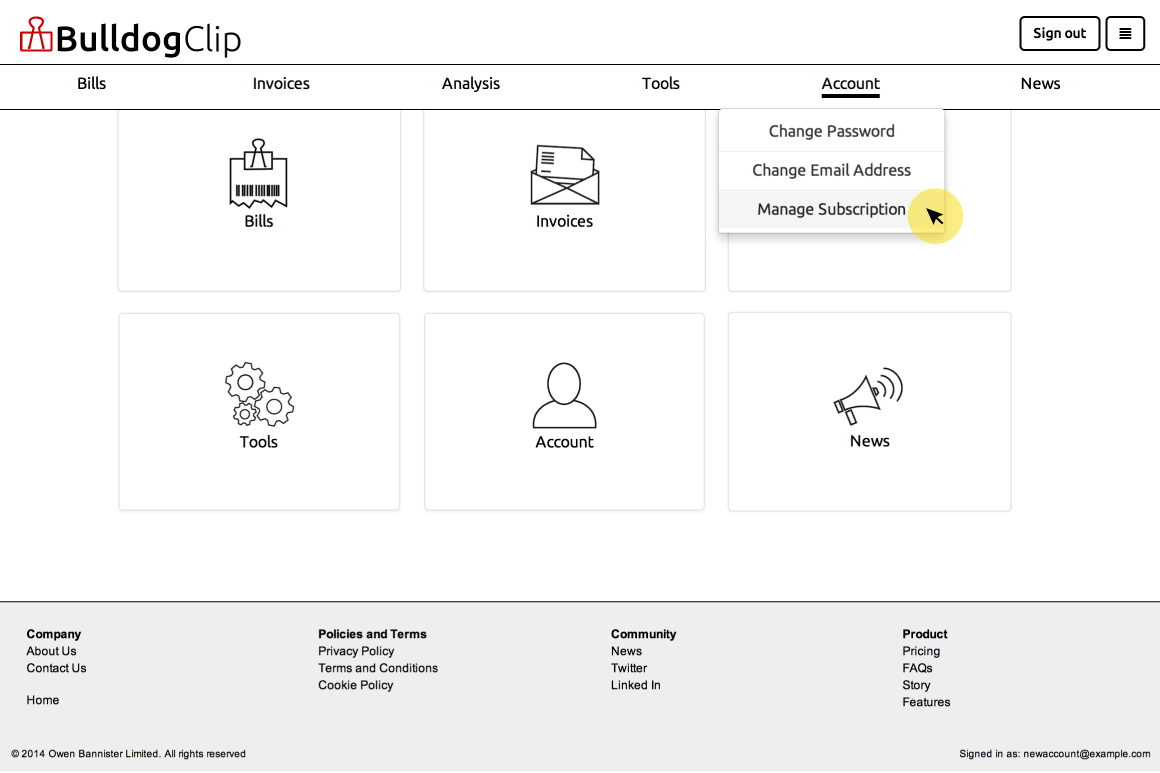
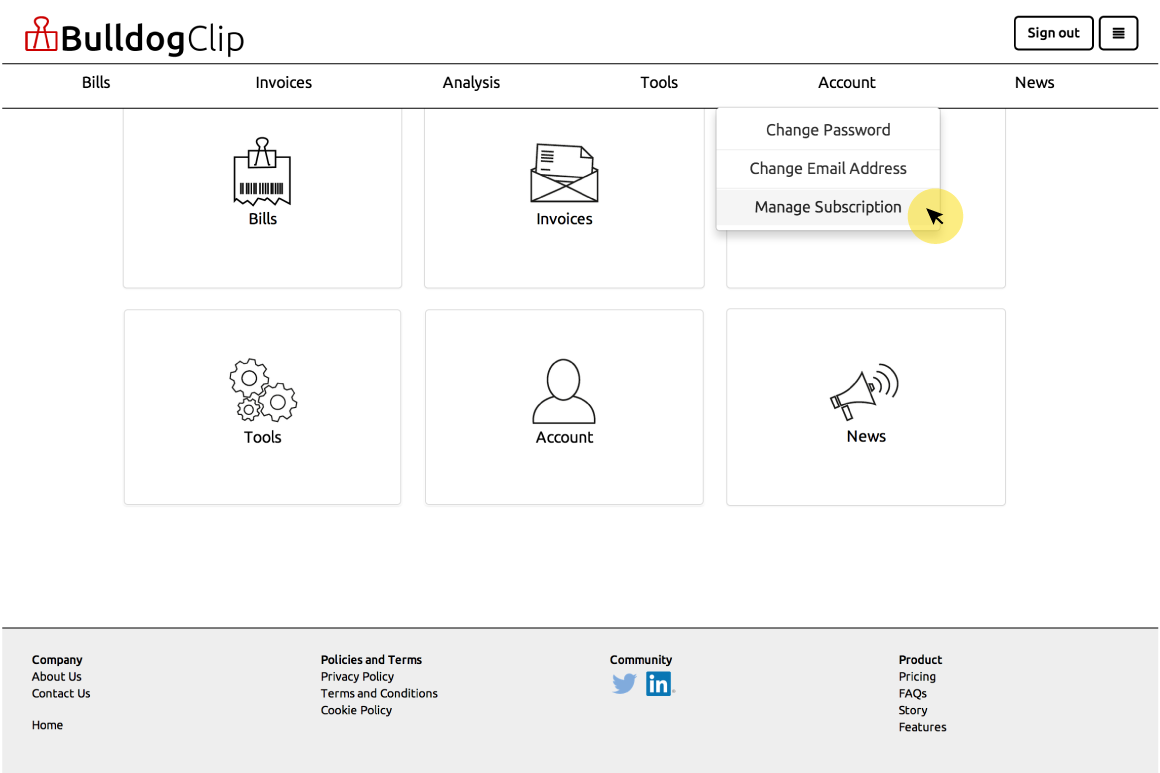
Issues list items including updates to help pages Issues list items fixes issues list items
formats update card form

changes resize point for update card form

styles checkbox on sign in page

sticks footer to bottom of page

corrects spacing on pricing, contact, policies and about us footer pages

adds missing help image for documents and invoices

adds metatags to emails

adds missing closing bracket to VAT feature

adds checkbox to accounts new

adds lines to invoice mailer commented out for checking

experiments with position: sticky for sidebar on iOS

adds structure for news page articles

help pages updates

account cancellation help page

adds new fields to the invoice mailer view

turns off leter opener

diff --git a/app/assets/stylesheets/partials/_info_pages.scss b/app/assets/stylesheets/partials/_info_pages.scss
@@ -12,6 +12,10 @@
 }
 }
 
+div.container.plans {
+  margin-bottom: 10px;
+}
+
 div.signup {
   // margin: 10px 0px 0px;
   text-align: center;
@@ -61,7 +65,8 @@ h2.video-header {
 @media screen and (min-width: 768px){
 .spacer {
   padding-top: 80px;
-  margin-top: -80px;
+  // margin-top: -80px;
+  margin-top: -60px;
 }
 }
 
@@ -89,6 +94,14 @@ ul.faq {
 
 ul {
 list-style-type: square;
+}
+
+// CONTACT US PAGE
+div.row.first-row {
+  margin-top: 20px;
+}
+div.row.last-row {
+  margin: 10px 0 30px;
 }
 
 // styles free demo page

diff --git a/app/assets/stylesheets/partials/_footer.scss b/app/assets/stylesheets/partials/_footer.scss
@@ -5,14 +5,16 @@
 footer {
    position:absolute;
    bottom:0;
-   height:202px;   /* Height of the footer */
+   // height:202px;   /* Height of the footer should match padding btm of main*/
+   height:169px;   /* Height of the footer should match padding btm of main to ensure sticks to bottom*/
    width: 100%
 
 }
 
-footer {
-  background-color: $light-grey;
-}
+// footer > div.footer-background {
+//   background-color: $light-grey;
+//   bottom: 0;
+// }
 
 
 // Footer copyright font size

diff --git a/app/assets/stylesheets/partials/_forms.scss b/app/assets/stylesheets/partials/_forms.scss
@@ -15,6 +15,15 @@
   padding-left: 25px;
 }
 
+// SIGN IN PAGE
+div.authform > form > div.checkbox > input#user_remember_me {
+  float: none;
+  margin-left: 0px;
+}
+div.authform > form > div.checkbox > label {
+  padding-left: 10px;
+}
+
 // STRIPE PAYMENT FORM
 
 // stripe form errors
@@ -185,6 +194,11 @@ h3.price {
   line-height: 2.5rem;
   text-align: center;
   padding-top: 10px;
+}
+
+// UPDATE CARD FORM
+div.subscribe > input.update-card {
+  margin-right: 0px;
 }
 
 // INVOICES

diff --git a/app/assets/stylesheets/partials/_sidebar.scss b/app/assets/stylesheets/partials/_sidebar.scss
@@ -4,14 +4,14 @@
   }
 
 // sets position fixed at 80px from top for larger sizes. 
-// data-offset-top of 120 gives allows it to scroll 120px from start position before fixing
+// data-offset-top of 120 allows it to scroll 120px from start position before fixing
 // @media (min-width: 694px) {
 @media (min-width: 768px) {
   dl.affix {
-    top: 80px; 
+    top: 70px; 
     position: fixed;
+    // position: -webkit-sticky; //for iOS
     width: 25%;
   }
 }
 
-// ACCORDIAN SIDEBAR

diff --git a/app/assets/stylesheets/partials/_home.scss b/app/assets/stylesheets/partials/_home.scss
@@ -74,7 +74,8 @@ main {
   padding-top: 80px; 
   background-color: $white;
   height: 100%;
-  padding-bottom: 207px;
+  // padding-bottom: 207px; //should match height of footer to ensure sticks to bottom
+  padding-bottom: 169px; //should match height of footer to ensure sticks to bottom
 }
 
 

diff --git a/config/environments/test.rb b/config/environments/test.rb
@@ -33,7 +33,7 @@ Bulldog::Application.configure do
   # Change from :test to :cache for email_spec testing with Selenium
 
   config.action_mailer.delivery_method =  :cache
-  #config.action_mailer.delivery_method = :letter_opener
+  # config.action_mailer.delivery_method = :letter_opener
 
   config.action_mailer.cache_settings = { :location => "#{Rails.root}/tmp/mail.cache" }
   # config.action_mailer.perform_deliveries = :true
